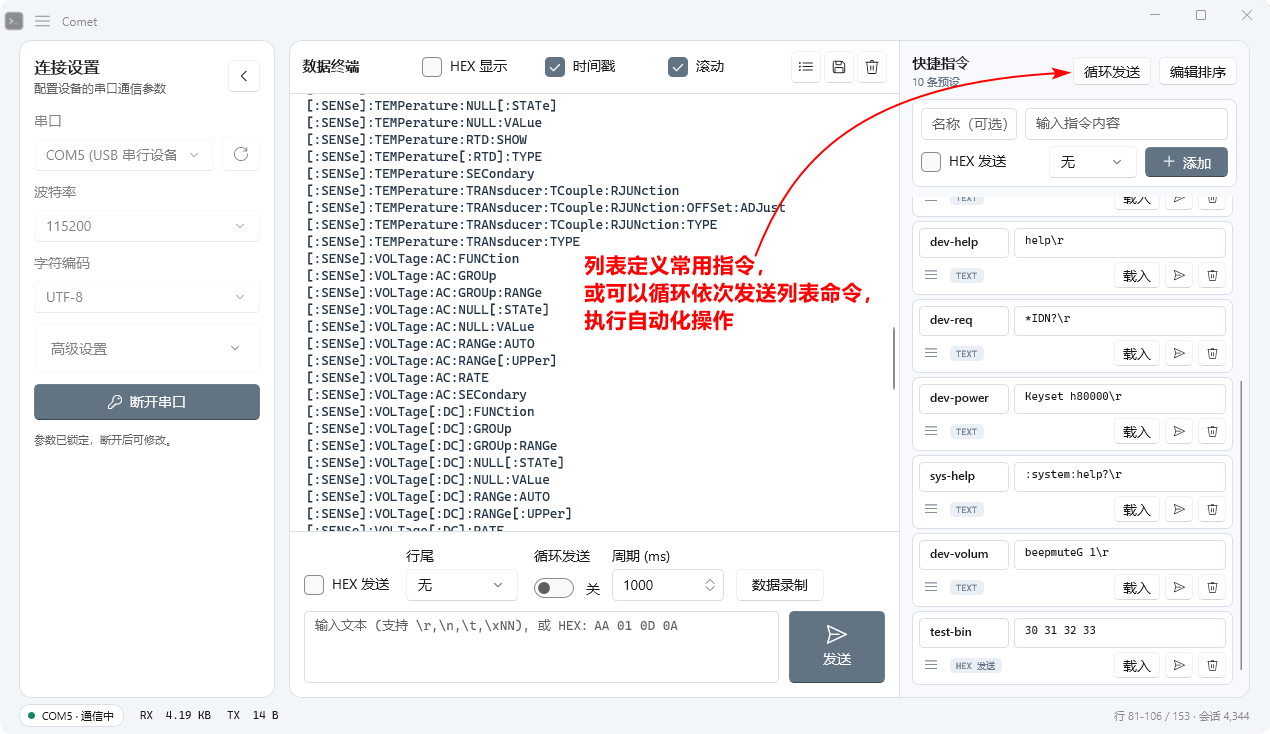
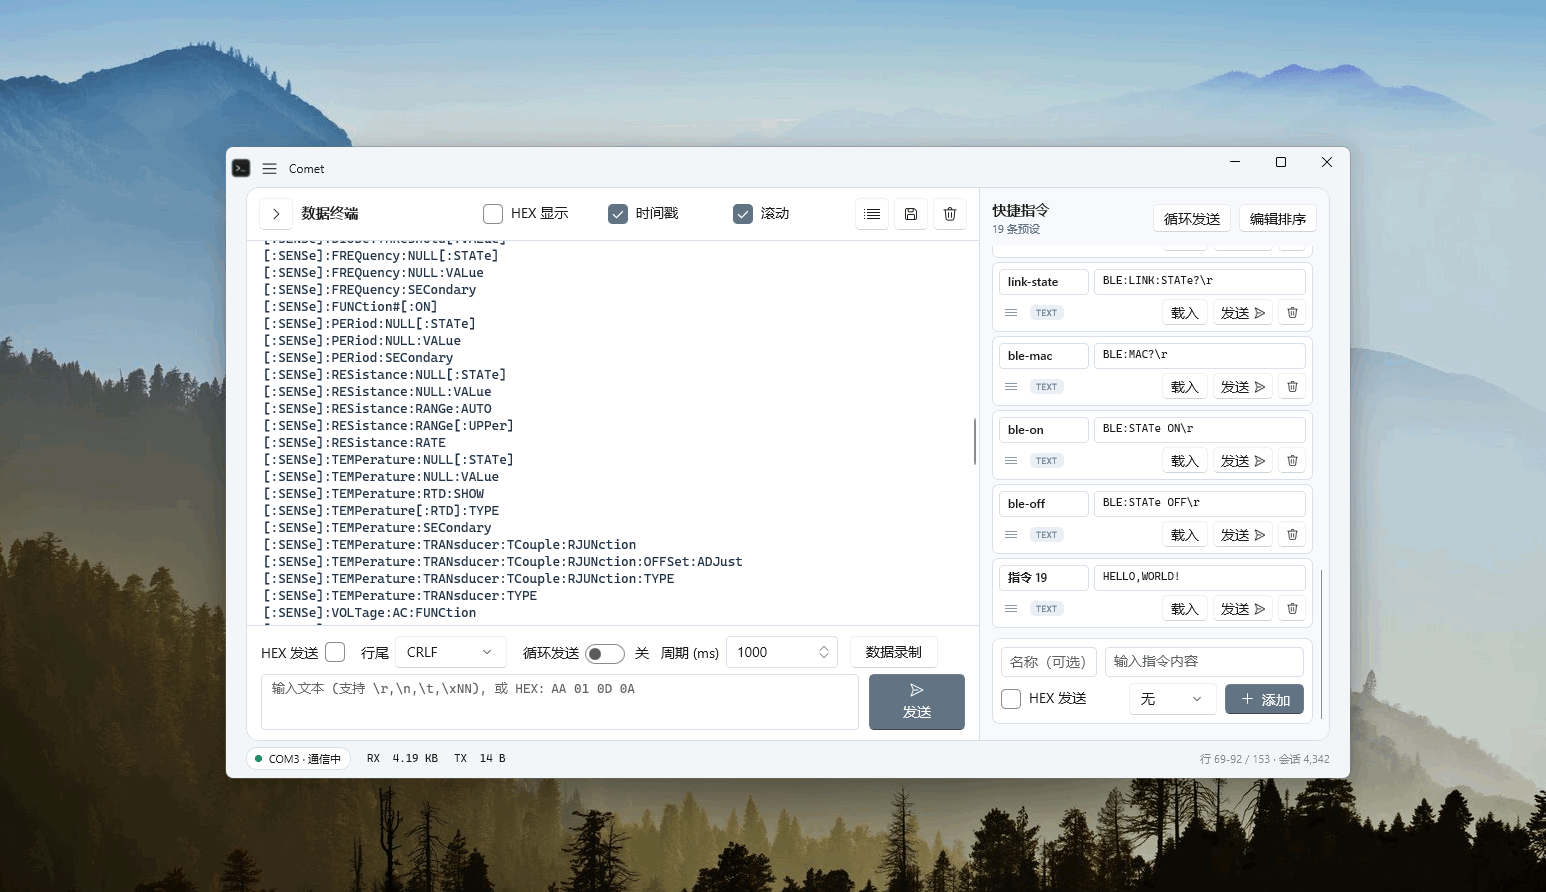
图标改为SVG并随程序发布让Win10和Win11不依赖系统图标字体版本从而保持一致

diff --git a/src/Comet/Views/MainPage.xaml b/src/Comet/Views/MainPage.xaml
@@ -69,7 +69,12 @@
                     Margin="0,0,-12,0"
                     VerticalScrollBarVisibility="Auto">
                     <ScrollViewer.Resources>
+                        <!-- Keep the WinUI hover indicator inside this panel's 8-DIP gutter. -->
+                        <x:Double x:Key="ScrollBarSize">8</x:Double>
+                        <x:Double x:Key="ScrollBarVerticalThumbMinWidth">8</x:Double>
+                        <x:Double x:Key="ScrollBarThumbOffset">0</x:Double>
                         <Style TargetType="ScrollBar">
+                            <Setter Property="MinWidth" Value="8" />
                             <Setter Property="Width" Value="8" />
                         </Style>
                     </ScrollViewer.Resources>
@@ -103,10 +108,7 @@
                                 AutomationProperties.Name="收起连接设置"
                                 Click="ConnectionPanelCollapseButton_Click"
                                 ToolTipService.ToolTip="收起连接设置">
-                                <FontIcon
-                                    FontFamily="{StaticResource SymbolThemeFontFamily}"
-                                    FontSize="14"
-                                    Glyph="&#xE76B;" />
+                                <Image Width="16" Height="16" Source="ms-appx:///Assets/CollapsePanel.svg" />
                             </Button>
                         </Grid>
 
@@ -131,10 +133,7 @@
                                         VerticalAlignment="Bottom"
                                         Click="RefreshPortsButton_Click"
                                         ToolTipService.ToolTip="刷新串口">
-                                        <FontIcon
-                                            FontFamily="{StaticResource SymbolThemeFontFamily}"
-                                            FontSize="14"
-                                            Glyph="&#xE72C;" />
+                                        <Image Width="16" Height="16" Source="ms-appx:///Assets/Refresh.svg" />
                                     </Button>
                                 </Grid>
 
@@ -209,11 +208,11 @@
                                 Click="SerialOpenCloseButton_Click"
                                 Style="{StaticResource AccentButtonStyle}">
                                 <StackPanel Orientation="Horizontal" Spacing="8">
-                                    <FontIcon
+                                    <Image
                                         x:Name="SerialOpenCloseIcon"
-                                        FontFamily="{StaticResource SymbolThemeFontFamily}"
-                                        FontSize="14"
-                                        Glyph="&#xE8CE;" />
+                                        Width="18"
+                                        Height="18"
+                                        Source="ms-appx:///Assets/Connect.svg" />
                                     <TextBlock x:Name="SerialOpenCloseText" Text="连接串口" />
                                 </StackPanel>
                             </Button>
@@ -268,10 +267,7 @@
                                 Click="ConnectionPanelExpandButton_Click"
                                 ToolTipService.ToolTip="展开连接设置"
                                 Visibility="Collapsed">
-                                <FontIcon
-                                    FontFamily="{StaticResource SymbolThemeFontFamily}"
-                                    FontSize="14"
-                                    Glyph="&#xE76C;" />
+                                <Image Width="16" Height="16" Source="ms-appx:///Assets/ExpandPanel.svg" />
                             </Button>
                             <TextBlock
                                 Margin="0,-2,0,2"
@@ -319,10 +315,7 @@
                                     AutomationProperties.Name="快捷指令面板开关"
                                     Click="TogglePresetPanelButton_Click"
                                     ToolTipService.ToolTip="显示快捷指令">
-                                    <FontIcon
-                                        FontFamily="{StaticResource SymbolThemeFontFamily}"
-                                        FontSize="14"
-                                        Glyph="&#xE8FD;" />
+                                    <Image Width="16" Height="16" Source="ms-appx:///Assets/PresetPanel.svg" />
                                 </Button>
                                 <Button
                                     x:Name="SaveLogButton"
@@ -331,10 +324,7 @@
                                     Padding="0"
                                     Click="SaveLogButton_Click"
                                     ToolTipService.ToolTip="保存日志">
-                                    <FontIcon
-                                        FontFamily="{StaticResource SymbolThemeFontFamily}"
-                                        FontSize="14"
-                                        Glyph="&#xE74E;" />
+                                    <Image Width="16" Height="16" Source="ms-appx:///Assets/Save.svg" />
                                 </Button>
                                 <Button
                                     x:Name="ClearTerminalButton"
@@ -343,10 +333,7 @@
                                     Padding="0"
                                     Click="ClearTerminalButton_Click"
                                     ToolTipService.ToolTip="清空终端">
-                                    <FontIcon
-                                        FontFamily="{StaticResource SymbolThemeFontFamily}"
-                                        FontSize="14"
-                                        Glyph="&#xE74D;" />
+                                    <Image Width="16" Height="16" Source="ms-appx:///Assets/Delete.svg" />
                                 </Button>
                             </StackPanel>
                         </StackPanel>
@@ -372,12 +359,11 @@
                                 VerticalAlignment="Center"
                                 IsHitTestVisible="False"
                                 Spacing="8">
-                                <FontIcon
+                                <Image
                                     HorizontalAlignment="Center"
-                                    FontFamily="{StaticResource SymbolThemeFontFamily}"
-                                    FontSize="32"
-                                    Foreground="#98A8B8"
-                                    Glyph="&#xE756;" />
+                                    Width="32"
+                                    Height="32"
+                                    Source="ms-appx:///Assets/EmptyTerminal.svg" />
                                 <TextBlock Foreground="{StaticResource CometMutedBrush}" Text="等待串口数据..." />
                             </StackPanel>
                         </Grid>
@@ -521,10 +507,11 @@
                                     <KeyboardAccelerator Key="Enter" Modifiers="Control" />
                                 </Button.KeyboardAccelerators>
                                 <StackPanel Spacing="4">
-                                    <FontIcon
+                                    <Image
                                         HorizontalAlignment="Center"
-                                        FontFamily="{StaticResource SymbolThemeFontFamily}"
-                                        Glyph="&#xE724;" />
+                                        Width="16"
+                                        Height="16"
+                                        Source="ms-appx:///Assets/SendLight.svg" />
                                     <TextBlock HorizontalAlignment="Center" Text="发送" />
                                 </StackPanel>
                             </Button>
@@ -599,7 +586,12 @@
                                     ScrollViewer.VerticalScrollMode="Enabled"
                                     SelectionMode="None">
                                     <ListView.Resources>
+                                        <!-- ListView owns its internal ScrollViewer, so retain the same local gutter. -->
+                                        <x:Double x:Key="ScrollBarSize">8</x:Double>
+                                        <x:Double x:Key="ScrollBarVerticalThumbMinWidth">8</x:Double>
+                                        <x:Double x:Key="ScrollBarThumbOffset">0</x:Double>
                                         <Style TargetType="ScrollBar">
+                                            <Setter Property="MinWidth" Value="8" />
                                             <Setter Property="Width" Value="8" />
                                         </Style>
                                     </ListView.Resources>
@@ -626,12 +618,14 @@
                                                     <TextBox
                                                         x:Name="NewPresetNameTextBox"
                                                         MinHeight="30"
+                                                        Padding="8,4,8,0"
                                                         PlaceholderText="名称（可选）" />
                                                     <TextBox
                                                         x:Name="NewPresetCommandTextBox"
                                                         Grid.Column="1"
                                                         MinHeight="30"
                                                         FontFamily="Cascadia Mono"
+                                                        Padding="8,4,8,0"
                                                         PlaceholderText="输入指令内容" />
                                                 </Grid>
                                                 <Grid Grid.Row="1" ColumnSpacing="8">
@@ -663,10 +657,7 @@
                                                         IsEnabled="{x:Bind ViewModel.CommandPresets.CanAdd, Mode=OneWay}"
                                                         Style="{StaticResource AccentButtonStyle}">
                                                         <StackPanel Orientation="Horizontal" Spacing="7">
-                                                            <FontIcon
-                                                                FontFamily="{StaticResource SymbolThemeFontFamily}"
-                                                                FontSize="13"
-                                                                Glyph="&#xE710;" />
+                                                            <Image Width="15" Height="15" Source="ms-appx:///Assets/Add.svg" />
                                                             <TextBlock Text="添加" />
                                                         </StackPanel>
                                                     </Button>
@@ -701,17 +692,21 @@
                                                             <ColumnDefinition Width="*" />
                                                         </Grid.ColumnDefinitions>
                                                         <TextBox
-                                                            MinHeight="30"
+                                                            Height="26"
+                                                            MinHeight="0"
                                                             FontSize="12"
                                                             FontWeight="SemiBold"
+                                                            Padding="8,4,8,0"
                                                             LostFocus="PresetNameTextBox_LostFocus"
                                                             Text="{Binding Name, Mode=OneWay}"
                                                             ToolTipService.ToolTip="可直接修改名称" />
                                                         <TextBox
                                                             Grid.Column="1"
-                                                            MinHeight="30"
+                                                            Height="26"
+                                                            MinHeight="0"
                                                             FontFamily="Cascadia Mono"
                                                             FontSize="11"
+                                                            Padding="8,4,8,0"
                                                             LostFocus="PresetCommandTextBox_LostFocus"
                                                             Text="{Binding Command, Mode=OneWay}"
                                                             ToolTipService.ToolTip="可直接修改指令内容" />
@@ -735,13 +730,12 @@
                                                             PointerPressed="PresetDragHandle_PointerPressed"
                                                             PointerReleased="PresetDragHandle_PointerEnded"
                                                             ToolTipService.ToolTip="点击“编辑排序”后拖动">
-                                                            <FontIcon
+                                                            <Image
                                                                 HorizontalAlignment="Center"
                                                                 VerticalAlignment="Center"
-                                                                FontFamily="{StaticResource SymbolThemeFontFamily}"
-                                                                FontSize="12"
-                                                                Foreground="{StaticResource CometMutedBrush}"
-                                                                Glyph="&#xE700;" />
+                                                                Width="12"
+                                                                Height="12"
+                                                                Source="ms-appx:///Assets/DragHandle.svg" />
                                                         </Border>
                                                         <Border
                                                             Grid.Column="1"
@@ -765,16 +759,20 @@
                                                             Tag="{Binding Id}" />
                                                         <Button
                                                             Grid.Column="3"
-                                                            Width="28"
+                                                            Width="60"
                                                             Height="26"
-                                                            Padding="0"
+                                                            Padding="7,2"
                                                             Click="SendPresetButton_Click"
                                                             Tag="{Binding Id}"
                                                             ToolTipService.ToolTip="立即发送">
-                                                            <FontIcon
-                                                                FontFamily="{StaticResource SymbolThemeFontFamily}"
-                                                                FontSize="11"
-                                                                Glyph="&#xE724;" />
+                                                            <StackPanel Orientation="Horizontal" Spacing="4">
+                                                                <TextBlock Text="发送" />
+                                                                <Image
+                                                                    Width="14"
+                                                                    Height="14"
+                                                                    Margin="0,1,0,0"
+                                                                    Source="ms-appx:///Assets/Send.svg" />
+                                                            </StackPanel>
                                                         </Button>
                                                         <Button
                                                             Grid.Column="4"
@@ -784,10 +782,7 @@
                                                             Click="DeletePresetButton_Click"
                                                             Tag="{Binding Id}"
                                                             ToolTipService.ToolTip="删除预设">
-                                                            <FontIcon
-                                                                FontFamily="{StaticResource SymbolThemeFontFamily}"
-                                                                FontSize="11"
-                                                                Glyph="&#xE74D;" />
+                                                            <Image Width="13" Height="13" Source="ms-appx:///Assets/Delete.svg" />
                                                         </Button>
                                                     </Grid>
                                                 </Grid>

diff --git a/src/Comet/Views/MainWindow.xaml b/src/Comet/Views/MainWindow.xaml
@@ -60,10 +60,7 @@
                         BorderThickness="0"
                         CornerRadius="6"
                         ToolTipService.ToolTip="菜单">
-                        <FontIcon
-                            FontFamily="{StaticResource SymbolThemeFontFamily}"
-                            FontSize="15"
-                            Glyph="&#xE700;" />
+                        <Image Width="17" Height="17" Source="ms-appx:///Assets/Menu.svg" />
                         <Button.Flyout>
                             <MenuFlyout
                                 MenuFlyoutPresenterStyle="{StaticResource MainMenuFlyoutPresenterStyle}"

diff --git a/src/Comet/Views/MainPage.SerialPort.cs b/src/Comet/Views/MainPage.SerialPort.cs
@@ -7,6 +7,7 @@ using Comet.ViewModels;
 using Microsoft.UI.Dispatching;
 using Microsoft.UI.Xaml;
 using Microsoft.UI.Xaml.Controls;
+using Microsoft.UI.Xaml.Media.Imaging;
 
 namespace Comet.Views;
 
@@ -456,7 +457,10 @@ public sealed partial class MainPage
 
         ConnectionDot.Fill = isConnected ? _connectedBrush : _disconnectedBrush;
         SerialOpenCloseText.Text = isConnected ? "断开串口" : "连接串口";
-        SerialOpenCloseIcon.Glyph = isConnected ? "\uE8D7" : "\uE8CE";
+        SerialOpenCloseIcon.Source = new SvgImageSource(new Uri(
+            isConnected
+                ? "ms-appx:///Assets/Disconnect.svg"
+                : "ms-appx:///Assets/Connect.svg"));
         UpdateReceiveRecordingState();
         if (isConnected)
         {

diff --git a/docs/ENVIRONMENT.md b/docs/ENVIRONMENT.md
@@ -172,7 +172,7 @@ dotnet publish .\src\Comet\Comet.csproj `
   -o .\artifacts\publish\win-x64
 ```
 
-> **重要：** Comet 不是单文件应用。发布时必须完整保留 EXE、DLL、PRI、资源和运行时文件；只复制 `Comet.exe` 无法构成可用发布包。
+> **重要：** Comet 不是单文件应用。发布时必须完整保留 EXE、DLL、PRI、资源和运行时文件；只复制 `Comet.exe` 无法构成可用发布包。界面使用的 `Assets/*.svg` 会由项目配置复制到发布目录，压缩便携包时必须保留整个 `Assets` 目录。
 
 ### 加入文档并压缩
 
